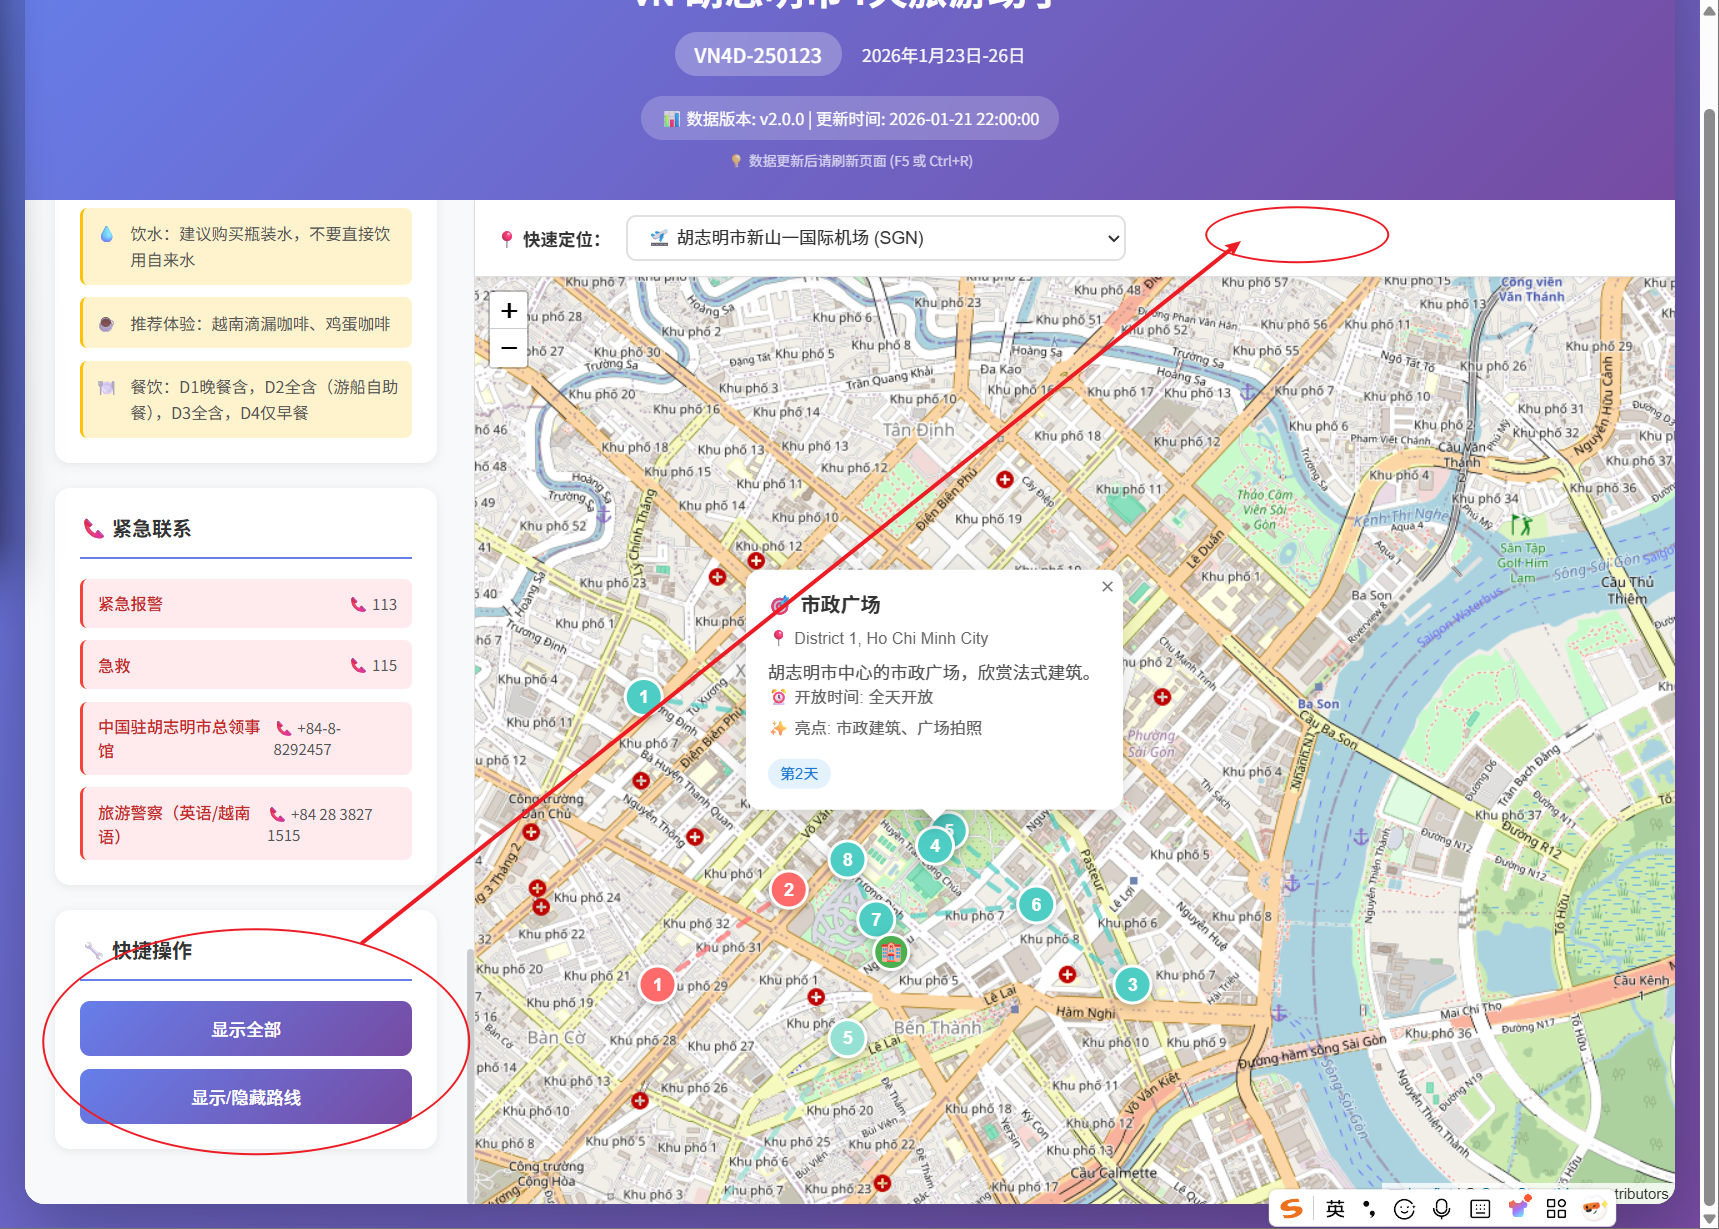
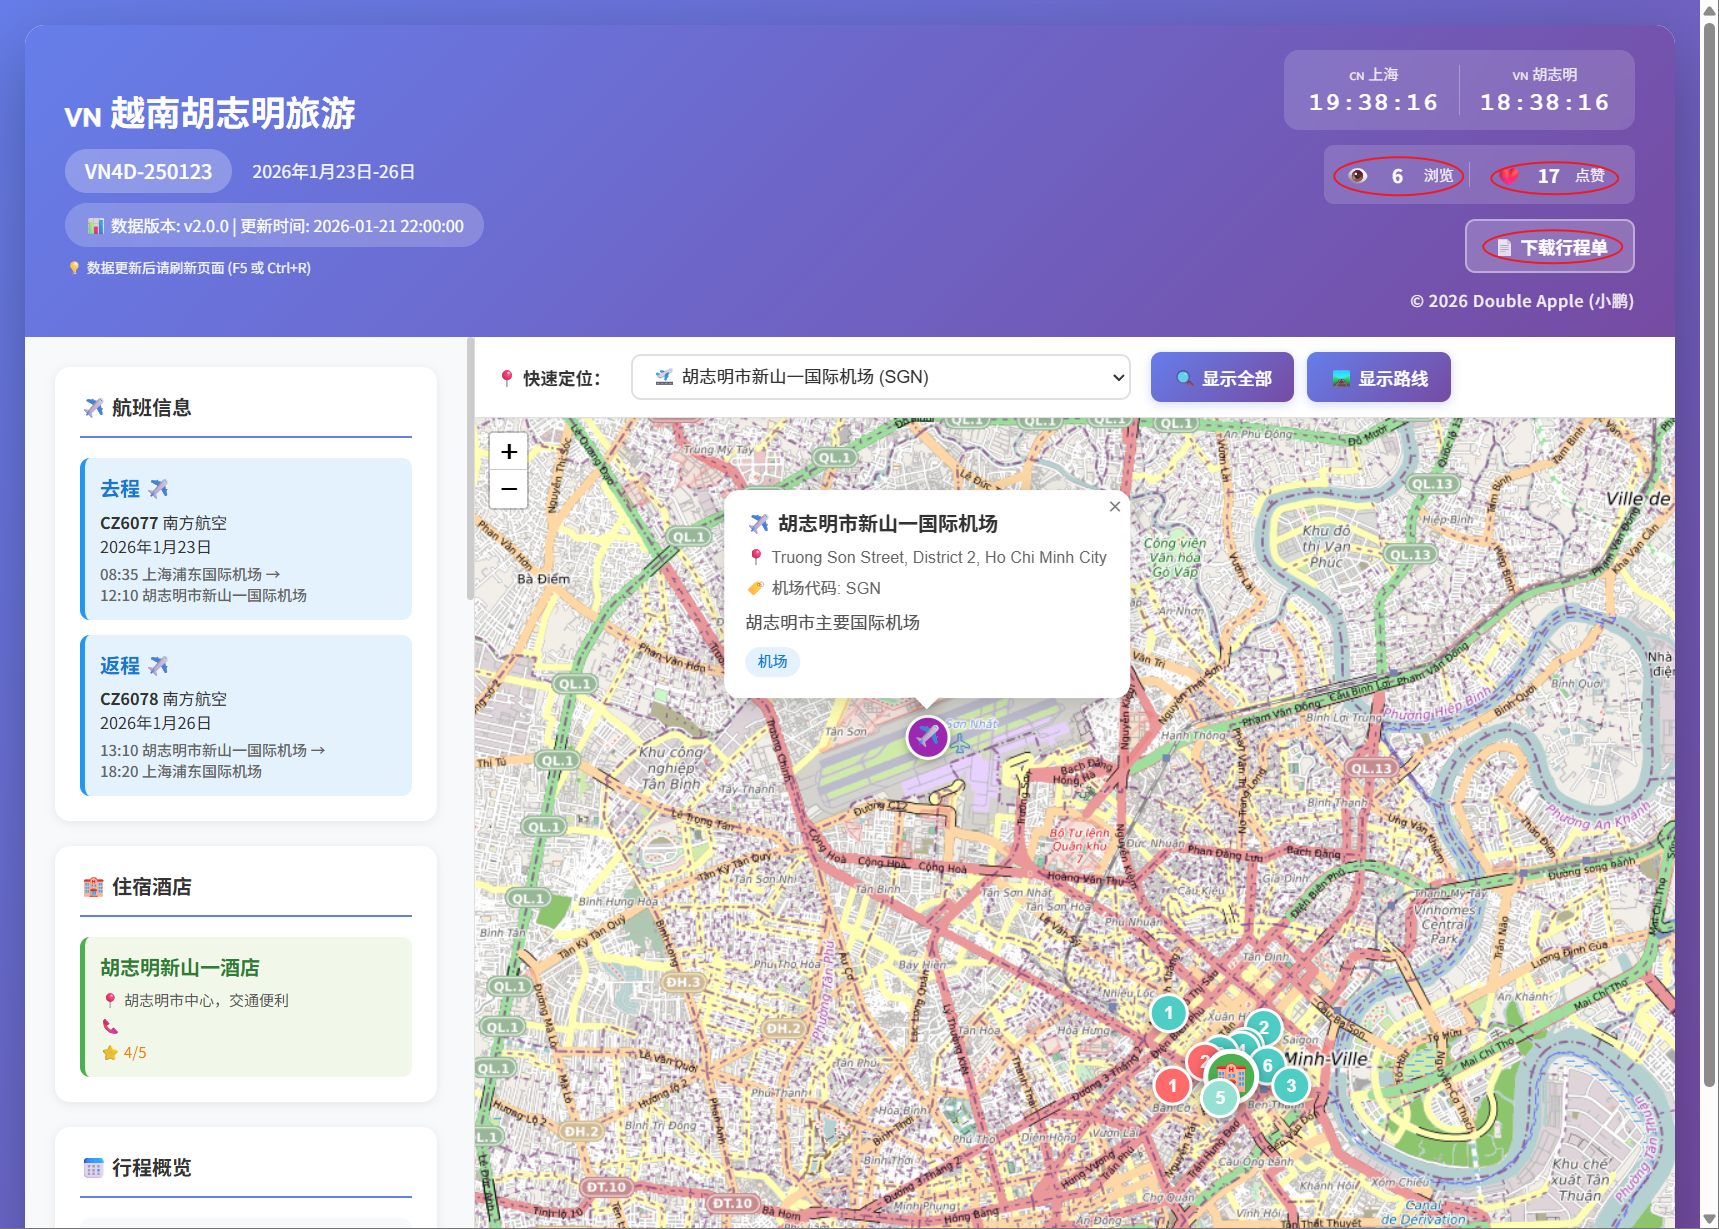
🔧 修复移动端显示问题，更新版本信息
版本更新：
- 📅 更新版本号：v2.0.0 → v2.1.0
- ⏰ 更新时间：2026-01-22 16:30:00

移动端布局修复：
- ✅ 移除侧边栏高度限制（max-height: 400px → none）
- ✅ 侧边栏允许滚动查看所有内容
- ✅ 地图使用视口高度单位（vh）适应不同屏幕
- ✅ 优化移动端断点：1024px / 768px / 375px
- ✅ PDF 按钮允许文字换行显示长内容

Android 端优化：
- 📱 侧边栏内容完全可见（航班、酒店、点赞、浏览量）
- 🗺 地图高度自适应（70vh）
- 📄 详细行程单按钮正常显示
- ✨ 点赞和浏览量统计清晰可见

主要改进：
1. @media (max-width: 1024px)：侧边栏不限制高度
2. @media (max-width: 768px)：地图占 70vh，侧边栏可滚动
3. @media (max-width: 375px)：适配小屏设备

diff --git a/docs/style.css b/docs/style.css
@@ -759,12 +759,16 @@ body {
 
     .sidebar {
         width: 100%;
-        max-height: 400px;
+        /* 移除高度限制，让内容自然流动 */
+        max-height: none;
+        height: auto;
     }
 
     .map-container {
-        height: 500px;
-        min-height: 500px;
+        /* 使用视口高度单位，确保适应不同屏幕 */
+        height: 60vh;
+        min-height: 300px !important;
+        max-height: 70vh;
     }
 
     .header-content {
@@ -781,6 +785,13 @@ body {
         width: 100%;
         justify-content: space-around;
     }
+
+    /* 确保头部内容在移动端可见 */
+    .stats-display,
+    .pdf-download-btn {
+        width: 100%;
+        justify-content: center;
+    }
 }
 
 @media (max-width: 768px) {
@@ -794,8 +805,11 @@ body {
 
     .sidebar {
         padding: 16px;
+        /* 移动端侧边栏：不限制高度，允许滚动 */
         max-height: none;
         height: auto;
+        /* 确保侧边栏内容可见 */
+        overflow-y: auto;
     }
 
     .time-value {
@@ -818,32 +832,51 @@ body {
 
     /* 移动端地图容器优化 */
     .map-container {
-        height: 50vh;
-        min-height: 350px !important;
-        max-height: 600px;
+        /* 移动端使用更大的视口比例 */
+        height: 70vh;
+        min-height: 400px !important;
+        max-height: none;
     }
 
     #map {
-        min-height: 300px !important;
+        min-height: 400px !important;
         height: 100%;
     }
 
     /* 确保主容器不会太高 */
     .main-content {
         min-height: auto;
+        display: flex;
+        flex-direction: column;
     }
 
-    /* PDF 下载按钮和统计在移动端 */
+    /* PDF 下载按钮在移动端 */
     .pdf-download-btn {
         width: 100%;
-        font-size: 12px;  /* 移动端进一步缩小 */
+        font-size: 12px;
         padding: 8px 12px;
         justify-content: center;
+        white-space: normal;  /* 允许换行显示长文字 */
+        line-height: 1.3;
+        text-align: center;
+    }
+}
+
+/* 超小屏幕（iPhone SE 等）额外优化 */
+@media (max-width: 375px) {
+    /* 移动端地图容器优化 */
+    .map-container {
+        height: 60vh;
+        min-height: 300px !important;
     }
 
-    .stats-display {
-        width: 100%;
-        justify-content: center;
+    #map {
+        min-height: 300px !important;
+    }
+
+    .pdf-download-btn {
+        font-size: 11px;
+        padding: 6px 10px;
     }
 }
 

diff --git a/data/data.js b/data/data.js
@@ -1,8 +1,8 @@
 // 旅游数据
 // 数据版本号 - 每次更新数据时请修改此版本号
-const DATA_VERSION = '2.0.0';
+const DATA_VERSION = '2.1.0';
 // 数据最后更新时间
-const DATA_LAST_UPDATED = '2026-01-21 22:00:00';
+const DATA_LAST_UPDATED = '2026-01-22 16:30:00';
 
 const tourData = {
     // 基本信息

diff --git a/README.md b/README.md
@@ -55,6 +55,13 @@
 - 🌍 多语言支持（中文/英文/越南语）
 - 📱 PWA移动应用支持
 
+### 第四阶段：体验优化期 🆕 规划中
+
+**计划功能**:
+- 📱 优化Android移动端排版和显示效果
+- 💱 添加越南盾(VND)与人民币(CNY)实时汇率换算功能
+- 🌤 增加上海与胡志明市实时天气对比展示
+
 ---
 
 ## ✨ 功能特点
